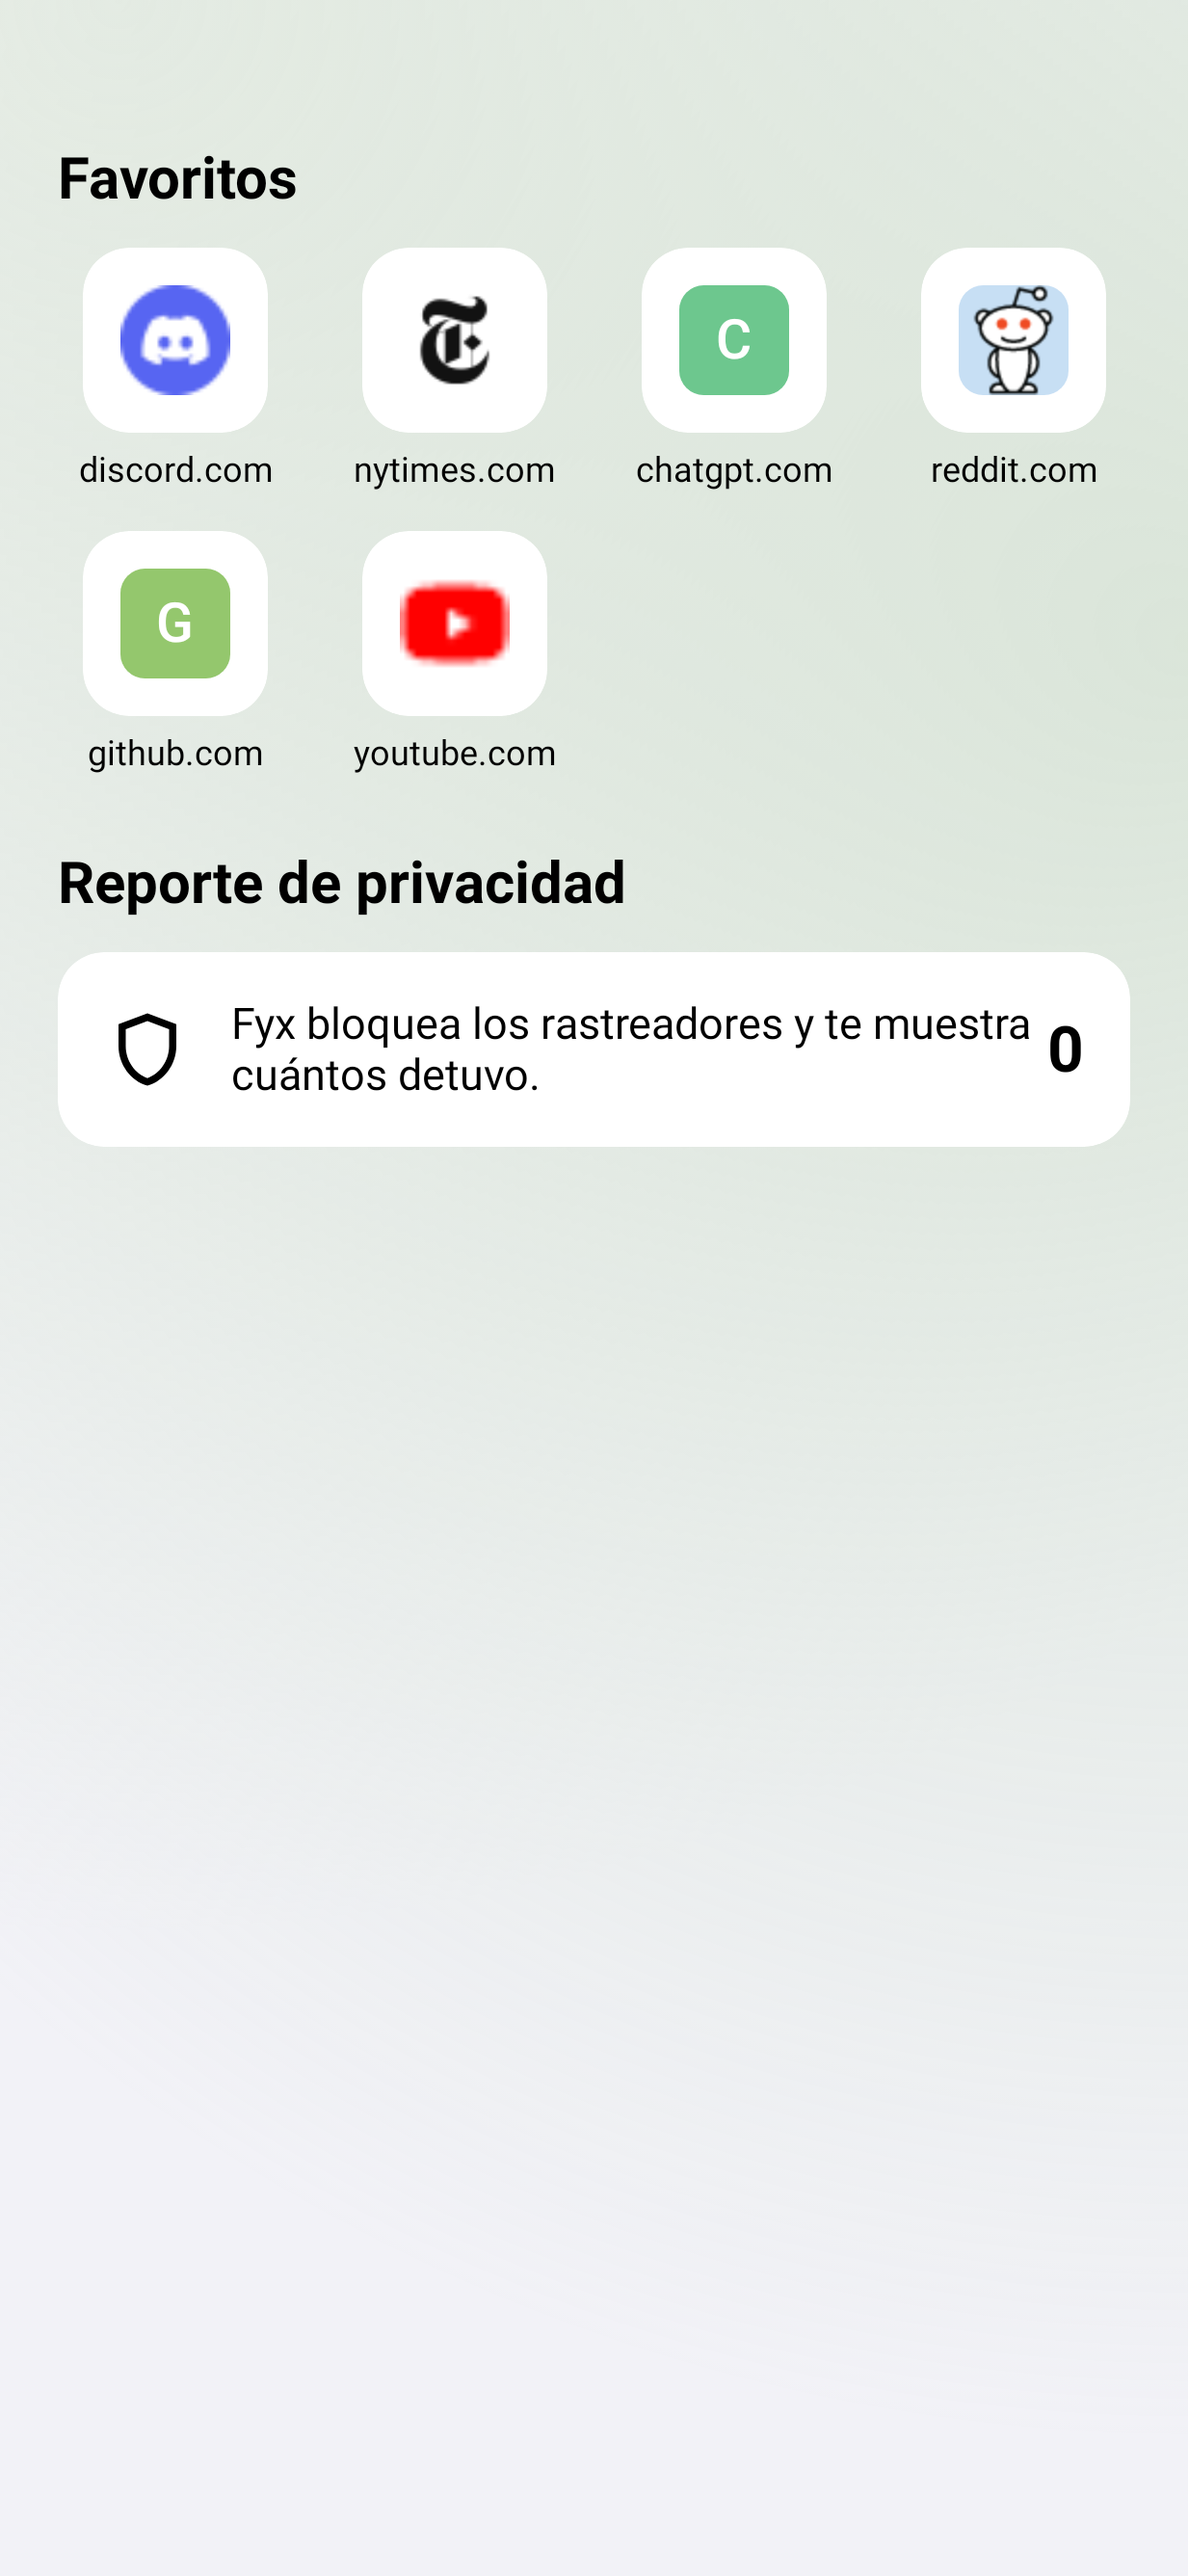
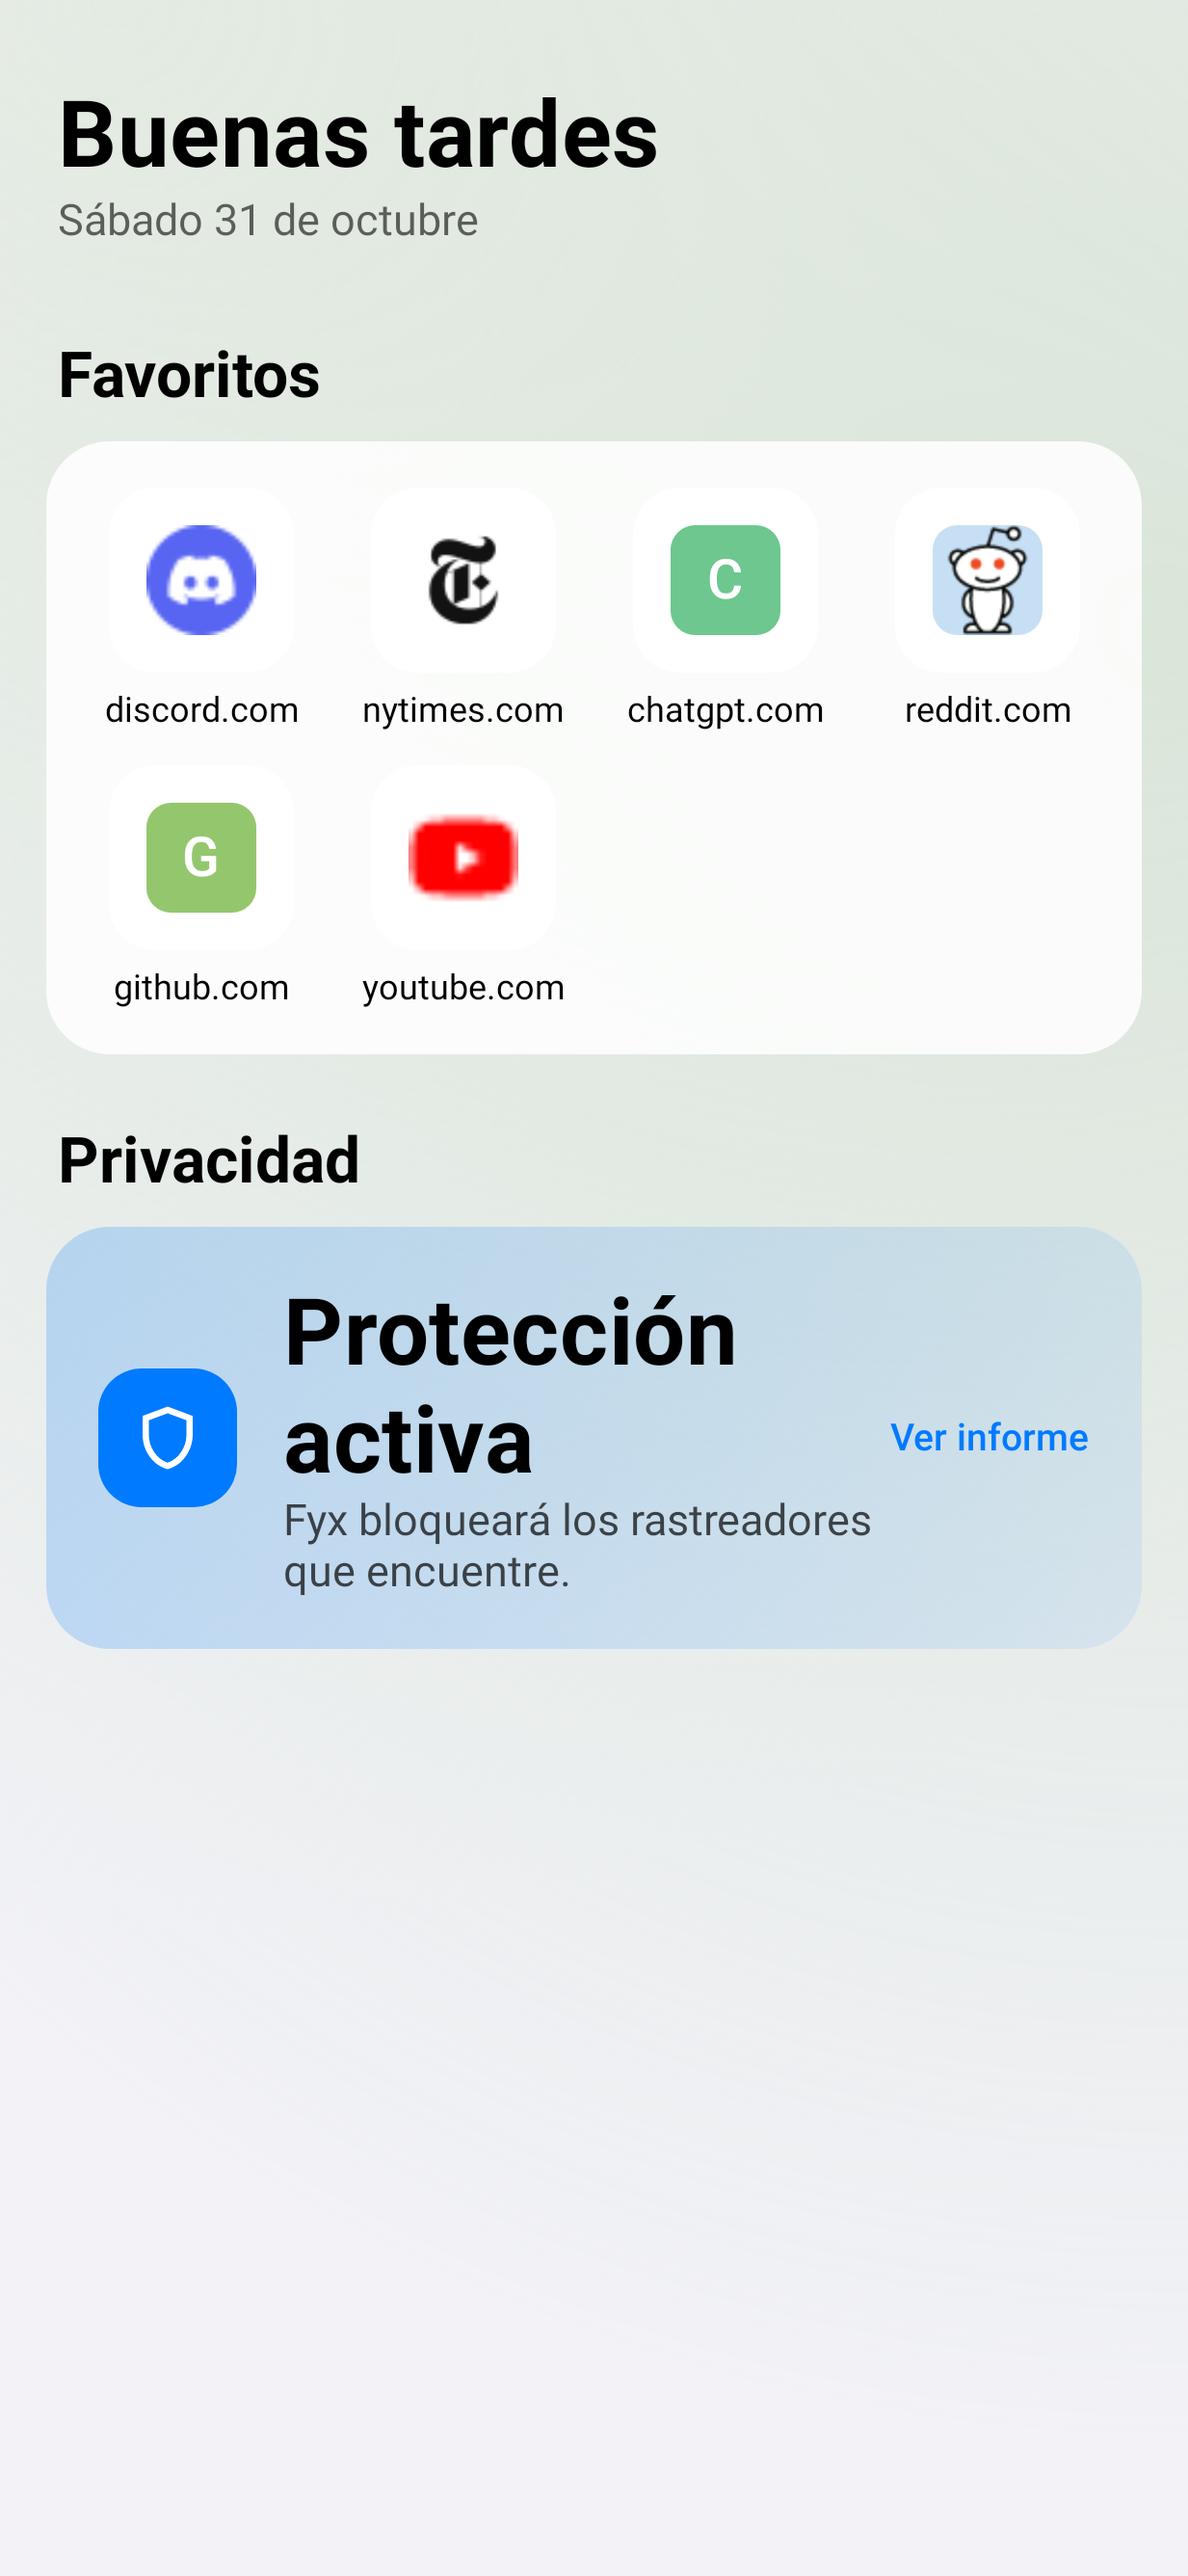
Android: página de inicio rediseñada
- Saludo grande según la hora ("Buenas tardes") y la fecha.
- El contenido va centrado, con un ancho máximo para que en tableta no se estire.
- Favoritos: mosaicos dentro de un panel suave, en más columnas en tableta.
- Visitados con frecuencia: filas con ícono, título y sitio (dos columnas en tableta), para que se distingan de los Favoritos.
- Privacidad: tarjeta destacada con degradado del acento, escudo, el número de rastreadores bloqueados en grande y "Ver informe".
- Lista de lectura en un panel con separadores; navegación privada y "Empieza a navegar" con su propio panel.

Claude-Session: https://claude.ai/code/session_01NYtWFK9ernQgkQbtZWdHMY

diff --git a/android/app/src/main/java/app/kaze/browser/ui/screens/StartPage.kt b/android/app/src/main/java/app/kaze/browser/ui/screens/StartPage.kt
@@ -4,6 +4,12 @@
 
 package app.kaze.browser.ui.screens
 
+import app.kaze.browser.ui.components.FaviconTile
+import androidx.compose.ui.text.font.FontWeight
+import androidx.compose.ui.draw.clip
+import androidx.compose.foundation.background
+import androidx.compose.ui.graphics.Color
+import androidx.compose.foundation.layout.widthIn
 import app.kaze.browser.ui.theme.flowBackground
 import androidx.compose.foundation.layout.Arrangement
 import androidx.compose.foundation.layout.Box
@@ -81,78 +87,120 @@ fun StartPage(
             strength = if (private) 0.9f else 0.5f,
         )
         Column(
-            Modifier.fillMaxSize().statusBarsPadding().verticalScroll(rememberScrollState())
-                .padding(top = 24.dp, bottom = 140.dp),
+            Modifier.fillMaxSize().statusBarsPadding().verticalScroll(rememberScrollState()).padding(top = 28.dp, bottom = 140.dp),
+            horizontalAlignment = Alignment.CenterHorizontally,
         ) {
-            if (private) {
-                Column(Modifier.padding(horizontal = 20.dp).fillMaxWidth().card(RoundedCornerShape(16.dp)).padding(20.dp)) {
-                    Text("Navegación privada", style = KazeType.title2, color = k.ink)
-                    Spacer(Modifier.height(6.dp))
-                    Text(
-                        "Fyx no guardará las páginas que visites, tu historial de búsqueda ni la información de autorrelleno. " +
-                            "Las pestañas privadas desaparecen al cerrarlas.",
-                        style = KazeType.subhead, color = k.ink55,
-                    )
+            // Contenido centrado y con ancho máximo: en tableta no se estira de borde a borde.
+            Column(Modifier.widthIn(max = 760.dp).fillMaxWidth()) {
+                // Saludo y fecha: la página se siente viva y da contexto sin estorbar.
+                val now = remember { java.util.Calendar.getInstance() }
+                val h = now.get(java.util.Calendar.HOUR_OF_DAY)
+                Text(
+                    if (private) "Navegación privada" else if (h < 12) "Buenos días" else if (h < 19) "Buenas tardes" else "Buenas noches",
+                    style = KazeType.largeTitle, color = k.ink, modifier = Modifier.padding(horizontal = 20.dp),
+                )
+                Text(
+                    java.text.SimpleDateFormat("EEEE d 'de' MMMM", java.util.Locale("es")).format(now.time).replaceFirstChar { it.uppercase() },
+                    style = KazeType.subhead, color = k.ink55, modifier = Modifier.padding(start = 20.dp, top = 2.dp, bottom = 8.dp),
+                )
+                if (private) {
+                    Panel {
+                        Row(verticalAlignment = Alignment.CenterVertically) {
+                            Badge(Icons.Outlined.Shield, Color(0xFF8E8CF0))
+                            Spacer(Modifier.width(14.dp))
+                            Text(
+                                "Fyx no guarda las páginas que visites, tus búsquedas ni lo que escribas en formularios. Las pestañas privadas desaparecen al cerrarlas.",
+                                style = KazeType.subhead, color = k.ink70,
+                            )
+                        }
+                    }
                 }
-            }
 
-            if (favorites.isNotEmpty() && app.settings.startFavorites) {
-                Section("Favoritos")
-                TileGrid(favorites.map { (it.pinnedUrl ?: it.url) to it.displayTitle }) { i, long ->
-                    if (long) onFavoriteMenu(favorites[i]) else onOpenFavorite(favorites[i])
+                if (favorites.isNotEmpty() && app.settings.startFavorites) {
+                    Section("Favoritos")
+                    Panel(pad = 8.dp) {
+                        TileGrid(favorites.map { (it.pinnedUrl ?: it.url) to it.displayTitle }) { i, long ->
+                            if (long) onFavoriteMenu(favorites[i]) else onOpenFavorite(favorites[i])
+                        }
+                    }
                 }
-            }
 
-            if (frequent.isNotEmpty() && app.settings.startFrequent) {
-                Section("Visitados con frecuencia")
-                TileGrid(frequent.map { it.url to it.title.ifBlank { Urls.displayHost(it.url) } }) { i, long ->
-                    if (!long) onOpenUrl(frequent[i].url)
-                }
-            }
-
-            if (!private && app.settings.startPrivacy) {
-                Section("Reporte de privacidad")
-                Row(
-                    Modifier.padding(horizontal = 20.dp).fillMaxWidth().card(RoundedCornerShape(16.dp))
-                        .tap(onPrivacyReport).padding(16.dp),
-                    verticalAlignment = Alignment.CenterVertically,
-                ) {
-                    Icon(Icons.Outlined.Shield, null, tint = k.ink, modifier = Modifier.size(30.dp))
-                    Spacer(Modifier.width(14.dp))
-                    val n = app.settings.trackersTotal
-                    Text(
-                        if (n == 0) "Fyx bloquea los rastreadores y te muestra cuántos detuvo." else
-                            "Fyx evitó que $n rastreadores te siguieran.",
-                        style = KazeType.subhead, color = k.ink, modifier = Modifier.weight(1f),
-                    )
-                    Text(n.toString(), style = KazeType.title2, color = k.ink)
-                }
-            }
-
-            if (reading.isNotEmpty() && app.settings.startReading) {
-                Section("Lista de lectura")
-                Column(Modifier.padding(horizontal = 20.dp).fillMaxWidth().card(RoundedCornerShape(16.dp))) {
-                    reading.forEach { r ->
-                        Row(
-                            Modifier.fillMaxWidth().tap { onOpenUrl(r.url) }.padding(horizontal = 14.dp, vertical = 12.dp),
-                            verticalAlignment = Alignment.CenterVertically,
-                        ) {
-                            Favicon(r.url, 30.dp)
-                            Spacer(Modifier.width(12.dp))
-                            Column(Modifier.weight(1f)) {
-                                Text(r.title.ifBlank { Urls.displayHost(r.url) }, style = KazeType.subhead, color = k.ink, maxLines = 2, overflow = TextOverflow.Ellipsis)
-                                Text(Urls.displayHost(r.url), style = KazeType.footnote, color = k.ink55, maxLines = 1)
+                if (frequent.isNotEmpty() && app.settings.startFrequent) {
+                    Section("Visitados con frecuencia")
+                    // Filas con ícono, título y sitio en dos columnas: se distinguen de los Favoritos de un vistazo.
+                    androidx.compose.foundation.layout.BoxWithConstraints(Modifier.padding(horizontal = 16.dp)) {
+                        val cols = if (maxWidth > 560.dp) 2 else 1
+                        Column(verticalArrangement = Arrangement.spacedBy(8.dp)) {
+                            frequent.take(if (cols == 2) 8 else 6).chunked(cols).forEach { row ->
+                                Row(horizontalArrangement = Arrangement.spacedBy(8.dp)) {
+                                    row.forEach { e ->
+                                        Row(
+                                            Modifier.weight(1f).clip(RoundedCornerShape(16.dp)).background(k.card.copy(alpha = 0.85f))
+                                                .tap { onOpenUrl(e.url) }.padding(horizontal = 12.dp, vertical = 10.dp),
+                                            verticalAlignment = Alignment.CenterVertically,
+                                        ) {
+                                            FaviconTile(e.url, 36.dp, 20.dp)
+                                            Spacer(Modifier.width(12.dp))
+                                            Column(Modifier.weight(1f)) {
+                                                Text(e.title.ifBlank { Urls.displayHost(e.url) }, style = KazeType.subhead.copy(fontWeight = FontWeight.Medium), color = k.ink, maxLines = 1, overflow = TextOverflow.Ellipsis)
+                                                Text(Urls.displayHost(e.url), style = KazeType.footnote, color = k.ink55, maxLines = 1)
+                                            }
+                                        }
+                                    }
+                                    if (row.size < cols) Spacer(Modifier.weight(1f))
+                                }
                             }
                         }
                     }
                 }
-            }
 
-            if (favorites.isEmpty() && frequent.isEmpty() && !private) {
-                Text(
-                    "Toca la barra de abajo para buscar. Para añadir sitios a Favoritos, usa el botón Compartir de una página.",
-                    style = KazeType.subhead, color = k.ink55, modifier = Modifier.padding(horizontal = 24.dp, vertical = 24.dp),
-                )
+                if (!private && app.settings.startPrivacy) {
+                    Section("Privacidad")
+                    val n = app.settings.trackersTotal
+                    // Tarjeta destacada: el número grande es lo que importa; el resto lo explica.
+                    Row(
+                        Modifier.padding(horizontal = 16.dp).fillMaxWidth().clip(RoundedCornerShape(22.dp))
+                            .background(androidx.compose.ui.graphics.Brush.linearGradient(listOf(k.accent.copy(alpha = 0.22f), k.accent.copy(alpha = 0.08f))))
+                            .tap(onPrivacyReport).padding(18.dp),
+                        verticalAlignment = Alignment.CenterVertically,
+                    ) {
+                        Badge(Icons.Outlined.Shield, k.accent)
+                        Spacer(Modifier.width(16.dp))
+                        Column(Modifier.weight(1f)) {
+                            Text(if (n == 0) "Protección activa" else "%,d".format(n).replace(',', '.'), style = (if (n == 0) KazeType.headline else KazeType.largeTitle), color = k.ink)
+                            Text(if (n == 0) "Fyx bloqueará los rastreadores que encuentre." else "rastreadores bloqueados", style = KazeType.subhead, color = k.ink70)
+                        }
+                        Text("Ver informe", style = KazeType.footnote.copy(fontWeight = FontWeight.SemiBold), color = k.accent)
+                    }
+                }
+
+                if (reading.isNotEmpty() && app.settings.startReading) {
+                    Section("Lista de lectura")
+                    Panel(pad = 0.dp) {
+                        reading.forEachIndexed { i, r ->
+                            Row(
+                                Modifier.fillMaxWidth().tap { onOpenUrl(r.url) }.padding(horizontal = 14.dp, vertical = 12.dp),
+                                verticalAlignment = Alignment.CenterVertically,
+                            ) {
+                                FaviconTile(r.url, 36.dp, 20.dp)
+                                Spacer(Modifier.width(12.dp))
+                                Column(Modifier.weight(1f)) {
+                                    Text(r.title.ifBlank { Urls.displayHost(r.url) }, style = KazeType.subhead.copy(fontWeight = FontWeight.Medium), color = k.ink, maxLines = 2, overflow = TextOverflow.Ellipsis)
+                                    Text(Urls.displayHost(r.url), style = KazeType.footnote, color = k.ink55, maxLines = 1)
+                                }
+                            }
+                            if (i < reading.lastIndex) Box(Modifier.padding(start = 62.dp).fillMaxWidth().height(0.5.dp).background(k.separator))
+                        }
+                    }
+                }
+
+                if (favorites.isEmpty() && frequent.isEmpty() && !private) {
+                    Panel {
+                        Text("Empieza a navegar", style = KazeType.headline, color = k.ink)
+                        Spacer(Modifier.height(4.dp))
+                        Text("Toca la barra para buscar. Para tener un sitio aquí, añádelo a Favoritos desde el menú ⋯.", style = KazeType.subhead, color = k.ink55)
+                    }
+                }
             }
         }
     }
@@ -161,25 +209,42 @@ fun StartPage(
 @Composable
 private fun Section(title: String) {
     val k = LocalKaze.current
-    Text(title, style = KazeType.sectionHeader, color = k.ink, modifier = Modifier.padding(start = 20.dp, top = 26.dp, bottom = 12.dp))
+    Text(title, style = KazeType.title2.copy(fontWeight = FontWeight.Bold), color = k.ink, modifier = Modifier.padding(start = 20.dp, top = 24.dp, bottom = 10.dp))
+}
+
+/** Panel suave (tarjeta translúcida) que agrupa una sección. */
+@Composable
+private fun Panel(pad: androidx.compose.ui.unit.Dp = 16.dp, content: @Composable androidx.compose.foundation.layout.ColumnScope.() -> Unit) {
+    val k = LocalKaze.current
+    Column(
+        Modifier.padding(horizontal = 16.dp).fillMaxWidth().clip(RoundedCornerShape(22.dp)).background(k.card.copy(alpha = 0.85f)).padding(pad),
+        content = content,
+    )
+}
+
+@Composable
+private fun Badge(icon: androidx.compose.ui.graphics.vector.ImageVector, color: Color) {
+    Box(Modifier.size(48.dp).clip(RoundedCornerShape(15.dp)).background(color), contentAlignment = Alignment.Center) {
+        Icon(icon, null, tint = Color.White, modifier = Modifier.size(26.dp))
+    }
 }
 
 @Composable
 private fun TileGrid(items: List<Pair<String, String>>, onClick: (Int, Boolean) -> Unit) {
-    // Columnas según el ancho: 4 en teléfono, más en tableta (los mosaicos no quedan perdidos).
+    // Columnas según el ancho: 4 en teléfono, más en tableta.
     androidx.compose.foundation.layout.BoxWithConstraints {
-    val cols = maxOf(4, (maxWidth / 110.dp).toInt())
-    Column(Modifier.padding(horizontal = 12.dp), verticalArrangement = Arrangement.spacedBy(14.dp)) {
-        items.withIndex().chunked(cols).forEach { row ->
-            Row(Modifier.fillMaxWidth()) {
-                row.forEach { (i, item) ->
-                    Box(Modifier.weight(1f), contentAlignment = Alignment.TopCenter) {
-                        SiteTile(item.first, item.second, onClick = { onClick(i, false) }, onLongClick = { onClick(i, true) })
+        val cols = maxOf(4, (maxWidth / 96.dp).toInt())
+        Column(Modifier.padding(vertical = 8.dp), verticalArrangement = Arrangement.spacedBy(12.dp)) {
+            items.withIndex().chunked(cols).forEach { row ->
+                Row(Modifier.fillMaxWidth()) {
+                    row.forEach { (i, item) ->
+                        Box(Modifier.weight(1f), contentAlignment = Alignment.TopCenter) {
+                            SiteTile(item.first, item.second, onClick = { onClick(i, false) }, onLongClick = { onClick(i, true) })
+                        }
                     }
+                    repeat(cols - row.size) { Spacer(Modifier.weight(1f)) }
                 }
-                repeat(cols - row.size) { Spacer(Modifier.weight(1f)) }
             }
         }
-    }
     }
 }
